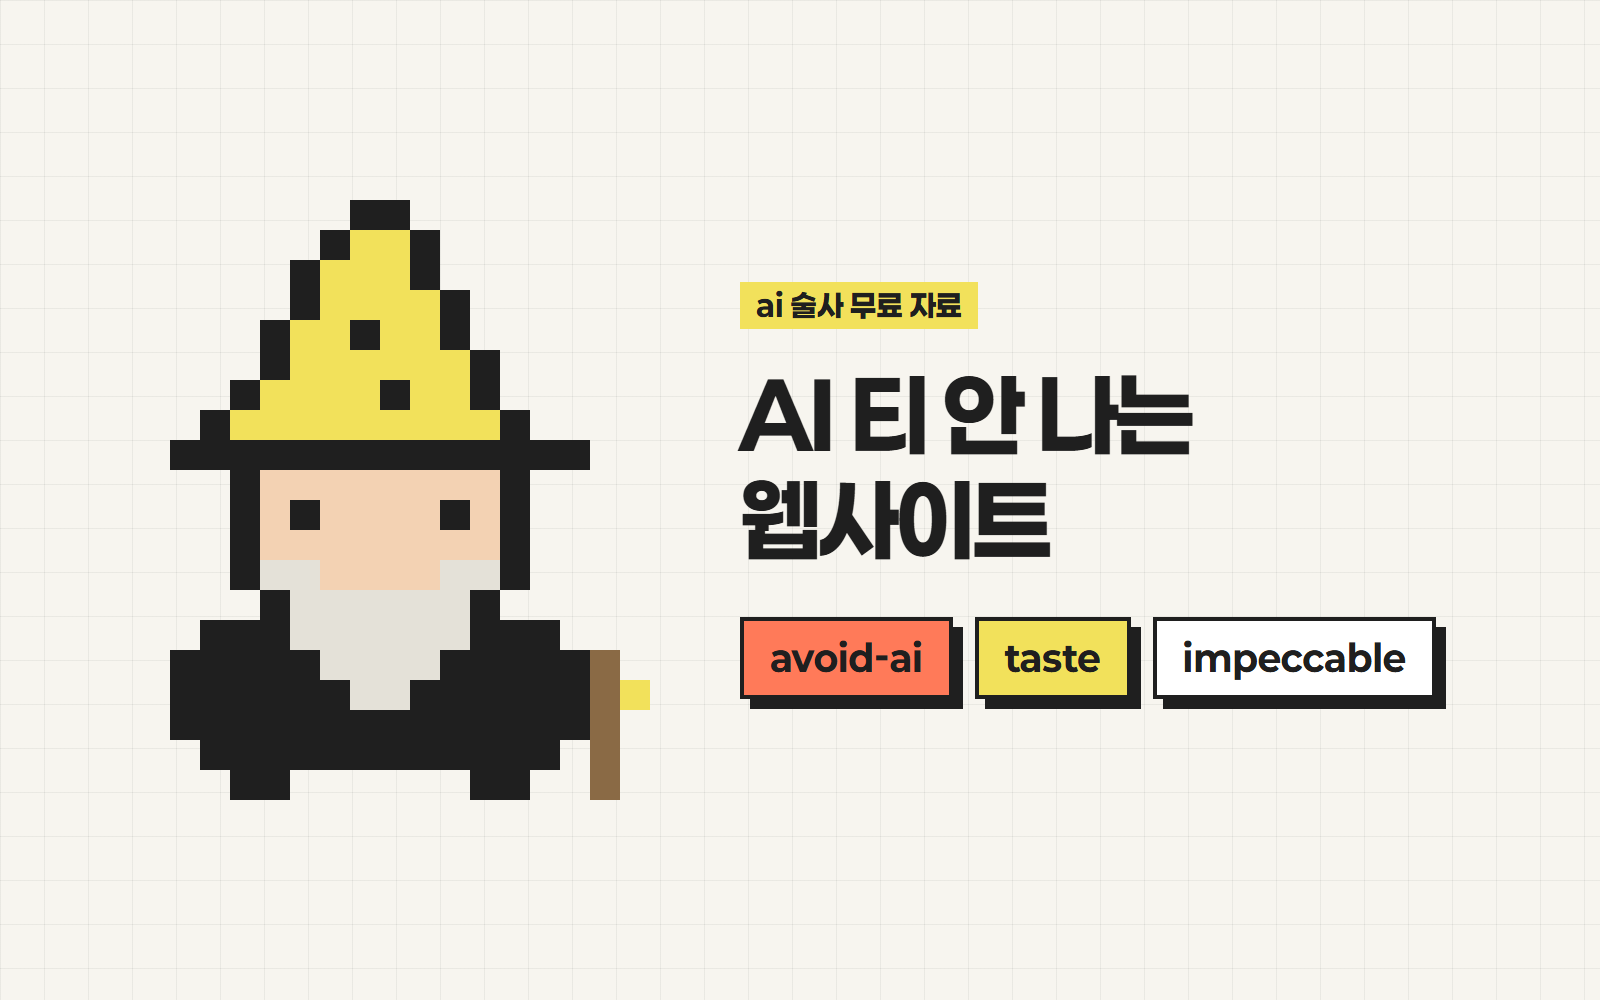
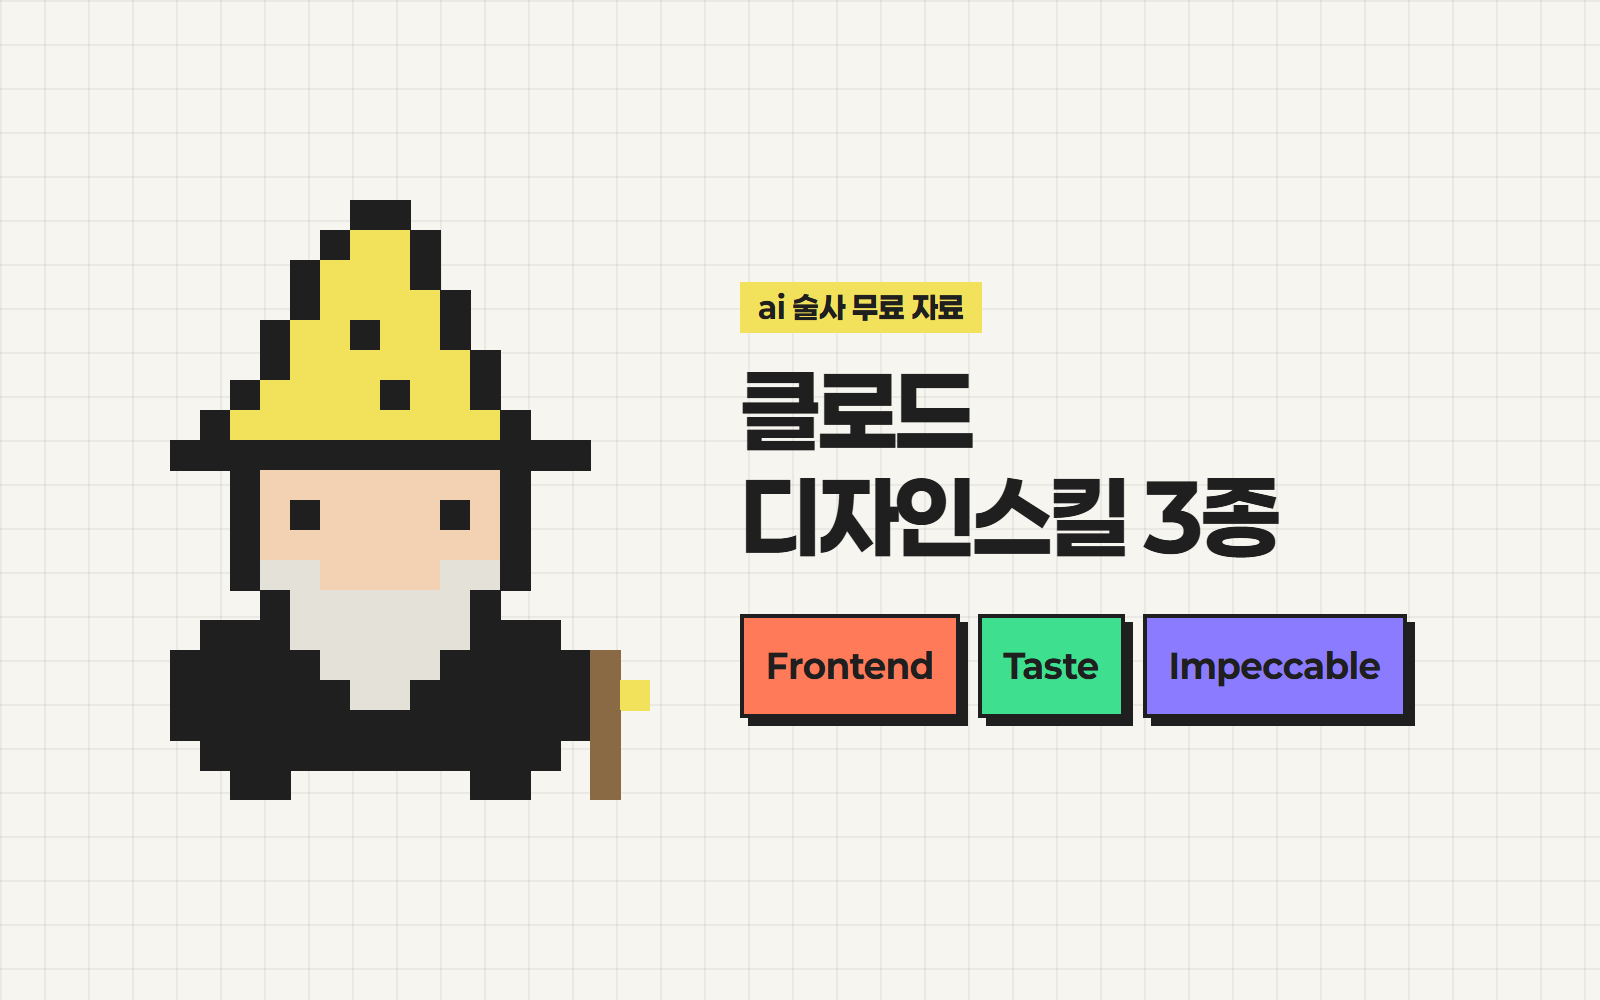
web-design: replace with 클로드 디자인스킬 3종 (frontend-design · taste · impeccable)

Changed region(s): [[0.4375, 0.589, 0.9062, 0.744], [0.4688, 0.372, 0.8125, 0.558], [0.4688, 0.279, 0.625, 0.341]]

diff --git a/scrolls/web-design/index.html b/scrolls/web-design/index.html
@@ -3,10 +3,10 @@
 <head>
 <meta charset="utf-8">
 <meta name="viewport" content="width=device-width,initial-scale=1,viewport-fit=cover">
-<title>AI 티 안 나는 웹사이트, 스킬 3개로 딸깍</title>
-<meta name="description" content="avoid-ai-design · taste · impeccable 설치법과 바로 쓰는 프롬프트">
-<meta property="og:title" content="AI 티 안 나는 웹사이트, 스킬 3개로 딸깍">
-<meta property="og:description" content="avoid-ai-design · taste · impeccable 설치법과 바로 쓰는 프롬프트">
+<title>클로드 디자인스킬 3종</title>
+<meta name="description" content="Frontend Design · Taste · Impeccable — 설치 명령어와 바로 쓰는 문장">
+<meta property="og:title" content="클로드 디자인스킬 3종">
+<meta property="og:description" content="Frontend Design · Taste · Impeccable — 설치 명령어와 바로 쓰는 문장">
 <meta property="og:url" content="https://joony1478-cloud.github.io/ai.magician/scrolls/web-design/">
 <meta property="og:image" content="https://joony1478-cloud.github.io/ai.magician/scrolls/web-design/cover.png">
 <link rel="icon" href="../../favicon.svg" type="image/svg+xml">
@@ -93,21 +93,43 @@ table.num td:last-child{text-align:right;font-weight:800;white-space:nowrap}
 </head>
 <body>
 <main>
-<img class="cover" src="cover.png" alt="픽셀 마법사와 AI 티 안 나는 웹사이트">
+<img class="cover" src="cover.png" alt="픽셀 마법사와 클로드 디자인스킬 3종">
 
 <p class="hi">안녕하세요 ai 술사 성준입니다.</p>
-<h1>AI 티 안 나는 웹사이트,<br><em>스킬 3개로 딸깍</em></h1>
+<h1>클로드<br><em>디자인스킬 3종</em></h1>
 <p class="lead">"웹사이트 만들어줘" 하면 늘 비슷하죠?<br>보라색 그라데이션, 가운데 제목, 똑같은 카드 3개.<br><b>성능 문제가 아니라 디자인 기준을 안 줘서</b> 그래요.</p>
+<p class="lead">제가 디자인 스킬 수십 개 써보고 남긴 3개, 초간단으로 알려드릴게요!</p>
+<img class="cover" src="design-studio.jpg" alt="블록 캐릭터가 드로잉 보드 위에 웹사이트 레이아웃 조각을 맞추는 그림" style="margin-top:20px;aspect-ratio:3/2" loading="lazy">
+
 <h2>준비물</h2><ol class="prep"><li><span class="n">1</span><span>Claude 유료 요금제 + Claude Code</span></li><li><span class="n">2</span><span>Node.js · <a href="https://nodejs.org" target="_blank" rel="noopener">nodejs.org</a> LTS</span></li></ol>
 <p class="tip">명령어가 어렵다면 Claude Code에 아래 GitHub 링크를 주고 "이 스킬 설치해줘"라고 하세요.</p>
-<section class="step"><span class="badge"><i style="background:#ff7a59"></i>STEP 1</span><h3><small>avoid-ai-design</small>Avoid AI Design</h3><p class=sub>AI 티 진단기. 흔적을 찾아서 고쳐줘요.</p><ol class="do"><li><span class="n">1</span><span>터미널에 입력하고 Claude Code를 다시 켜요.</span></li></ol><div class="copy line"><pre>git clone https://github.com/funboy322/avoid-ai-design.git ~/.claude/skills/avoid-ai-design</pre><button type="button">복사</button></div><p class="lbl">고치기</p><div class="copy"><pre class="ko">이 페이지 AI 티 안 나게 고쳐줘</pre><button type="button">복사</button></div><p class="lbl">진단만 하기</p><div class="copy"><pre class="ko">AI 티 나는 부분 진단만 해줘, 수정은 하지 마</pre><button type="button">복사</button></div><p class="done">문제를 심각한 순서(P0 → P2)대로 알려줘요.</p></section>
-<section class="step"><span class="badge"><i style="background:#f2e15b"></i>STEP 2</span><h3><small>taste-skill</small>Taste</h3><p class=sub>뻔한 레이아웃 대신 개성 있는 디자인으로.</p><div class="copy line"><pre>npx skills add https://github.com/Leonxlnx/taste-skill --skill &quot;design-taste-frontend&quot;</pre><button type="button">복사</button></div><p class="lbl">핵심은 레퍼런스예요</p><div class="copy"><pre class="ko">taste 스킬로 첨부한 이미지 느낌을 살려서 ○○ 랜딩페이지 만들어줘.</pre><button type="button">복사</button></div><div class="copy"><pre class="ko">taste 스킬로 [홈페이지 주소] 분위기를 참고해서 ○○ 랜딩페이지 만들어줘. 똑같이 베끼지 말고 내 브랜드에 맞게.</pre><button type="button">복사</button></div><p class="done">이미지는 Claude Code 입력창에 끌어다 놓으면 첨부돼요.</p></section>
-<section class="step"><span class="badge"><i style="background:#fff"></i>STEP 3</span><h3><small>impeccable</small>Impeccable</h3><p class=sub>명령어 하나로 폰트·여백·색을 부분별로 다듬어요.</p><div class="copy line"><pre>npx skills add https://github.com/pbakaus/impeccable --skill impeccable</pre><button type="button">복사</button></div><ol class="do"><li><span class="n">1</span><span>처음에 서비스 정보를 알려줘요.</span></li></ol><div class="copy line"><pre>/impeccable init</pre><button type="button">복사</button></div><p class="lbl">필요할 때마다</p><ul class="chk"><li><span><code>/impeccable critique</code> 뭐가 별로인지 피드백</span></li><li><span><code>/impeccable typeset</code> 폰트가 어색할 때</span></li><li><span><code>/impeccable layout</code> 여백·배치가 답답할 때</span></li><li><span><code>/impeccable bolder</code> · <code>quieter</code> 밋밋하거나 과할 때</span></li><li><span><code>/impeccable polish</code> 배포 전 마지막 점검</span></li></ul></section>
+
+<section class="step"><span class="badge"><i style="background:#ff7a59"></i>STEP 1</span><h3><small>frontend-design · Anthropic 공식</small>Frontend Design</h3><p class=sub>주제에 맞는 디자인 방향부터 정하고 만들어요.</p>
+<ol class="do"><li><span class="n">1</span><span>Claude Code에 입력해요.</span></li></ol>
+<div class="copy line"><pre>/plugin install frontend-design@claude-plugins-official</pre><button type="button">복사</button></div>
+<p class="lbl">깔아두면 화면 만들 때 알아서 써요</p>
+<div class="copy"><pre class="ko">동네 빵집 홈페이지 만들어줘. 흔한 AI 느낌 말고 디자인 방향부터 정하고 시작해줘.</pre><button type="button">복사</button></div>
+<p class="done">색·글꼴·레이아웃 계획을 먼저 보여주고 만들어요.</p></section>
+
+<section class="step"><span class="badge"><i style="background:#3ee08f"></i>STEP 2</span><h3><small>taste-skill</small>Taste</h3><p class=sub>레퍼런스를 읽고 디자인 방향을 잡아요.</p>
+<div class="copy line"><pre>npx skills add https://github.com/Leonxlnx/taste-skill --skill &quot;design-taste-frontend&quot;</pre><button type="button">복사</button></div>
+<p class="lbl">핵심은 레퍼런스예요</p>
+<div class="copy"><pre class="ko">taste 스킬로 첨부한 이미지 느낌을 살려서 ○○ 랜딩페이지 만들어줘.</pre><button type="button">복사</button></div>
+<div class="copy"><pre class="ko">taste 스킬로 [홈페이지 주소] 분위기를 참고해서 ○○ 랜딩페이지 만들어줘. 똑같이 베끼지 말고 내 브랜드에 맞게.</pre><button type="button">복사</button></div>
+<p class="done">이미지는 Claude Code 입력창에 끌어다 놓으면 첨부돼요.</p></section>
+
+<section class="step"><span class="badge"><i style="background:#8b7bff"></i>STEP 3</span><h3><small>impeccable</small>Impeccable</h3><p class=sub>명령어 한 줄로 폰트·여백·정렬을 마감해요.</p>
+<div class="copy line"><pre>npx skills add https://github.com/pbakaus/impeccable --skill impeccable</pre><button type="button">복사</button></div>
+<ol class="do"><li><span class="n">1</span><span>처음에 서비스 정보를 알려줘요.</span></li></ol>
+<div class="copy line"><pre>/impeccable init</pre><button type="button">복사</button></div>
+<p class="lbl">필요할 때마다</p>
+<ul class="chk"><li><span><code>/impeccable critique</code> 뭐가 별로인지 점수·피드백</span></li><li><span><code>/impeccable typeset</code> 폰트가 어색할 때</span></li><li><span><code>/impeccable layout</code> 여백·정렬이 답답할 때</span></li><li><span><code>/impeccable polish</code> 배포 전 마지막 마감</span></li></ul></section>
+
 <h2>3개 같이 쓰는 순서</h2>
-<ul class="chk"><li><span>Taste로 레퍼런스 넣고 첫 버전 뽑기</span></li><li><span>Avoid AI Design으로 AI 티 진단·제거</span></li><li><span>Impeccable polish로 디테일 마감</span></li></ul>
+<ul class="chk"><li><span>Taste로 레퍼런스 넣고 방향 잡기</span></li><li><span>Frontend Design이 주제에 맞게 만들기</span></li><li><span>Impeccable polish로 디테일 마감</span></li></ul>
 <h2>주의</h2>
-<ul class="warn"><li>결과가 이상하면 "이번엔 ○○ 스킬만 써줘"처럼 하나만 지정하세요.</li><li>2026년 9월 기준 설치법이에요. 스킬 업데이트에 따라 명령어가 바뀔 수 있어요.</li></ul>
-<p class="src">출처 · <a href="https://github.com/funboy322/avoid-ai-design" target="_blank" rel="noopener">avoid-ai-design</a> · <a href="https://github.com/Leonxlnx/taste-skill" target="_blank" rel="noopener">taste-skill</a> · <a href="https://github.com/pbakaus/impeccable" target="_blank" rel="noopener">impeccable</a></p>
+<ul class="warn"><li>결과가 이상하면 "이번엔 ○○ 스킬만 써줘"처럼 하나만 지정하세요.</li><li>2026년 10월 기준 설치법이에요. 스킬 업데이트에 따라 명령어가 바뀔 수 있어요.</li></ul>
+<p class="src">출처 · <a href="https://github.com/anthropics/claude-plugins-official" target="_blank" rel="noopener">claude-plugins-official</a> · <a href="https://github.com/Leonxlnx/taste-skill" target="_blank" rel="noopener">taste-skill</a> · <a href="https://github.com/pbakaus/impeccable" target="_blank" rel="noopener">impeccable</a></p>
 
 <p class="bye">궁금하신 점은 DM으로 편하게 물어봐 주세요 🪄</p>
 <p class="sign">From. ai 술사 | 성준</p>

diff --git a/index.html b/index.html
@@ -293,8 +293,8 @@ const DOCS = [
     desc:"같은 요금제로 더 오래 쓰는 토큰 절약 스킬 설치법과 사용법",
     tags:[["Claude Code 필요"],["설치 포함"]] },
   { id:"web-design", url:"https://joony1478-cloud.github.io/ai.magician/scrolls/web-design/",
-    title:"AI 티 안 나는 웹사이트, 스킬 3개로 딸깍",
-    desc:"avoid-ai-design · taste · impeccable 설치법과 바로 쓰는 프롬프트",
+    title:"클로드 디자인스킬 3종",
+    desc:"frontend-design · taste · impeccable 설치법과 바로 쓰는 문장",
     tags:[["Claude Code 필요"],["Node.js 필요"]] },
   { id:"marketing", url:"https://joony1478-cloud.github.io/ai.magician/scrolls/marketing/",
     title:"클로드가 마케팅 팀이 되는 스킬 3종",
